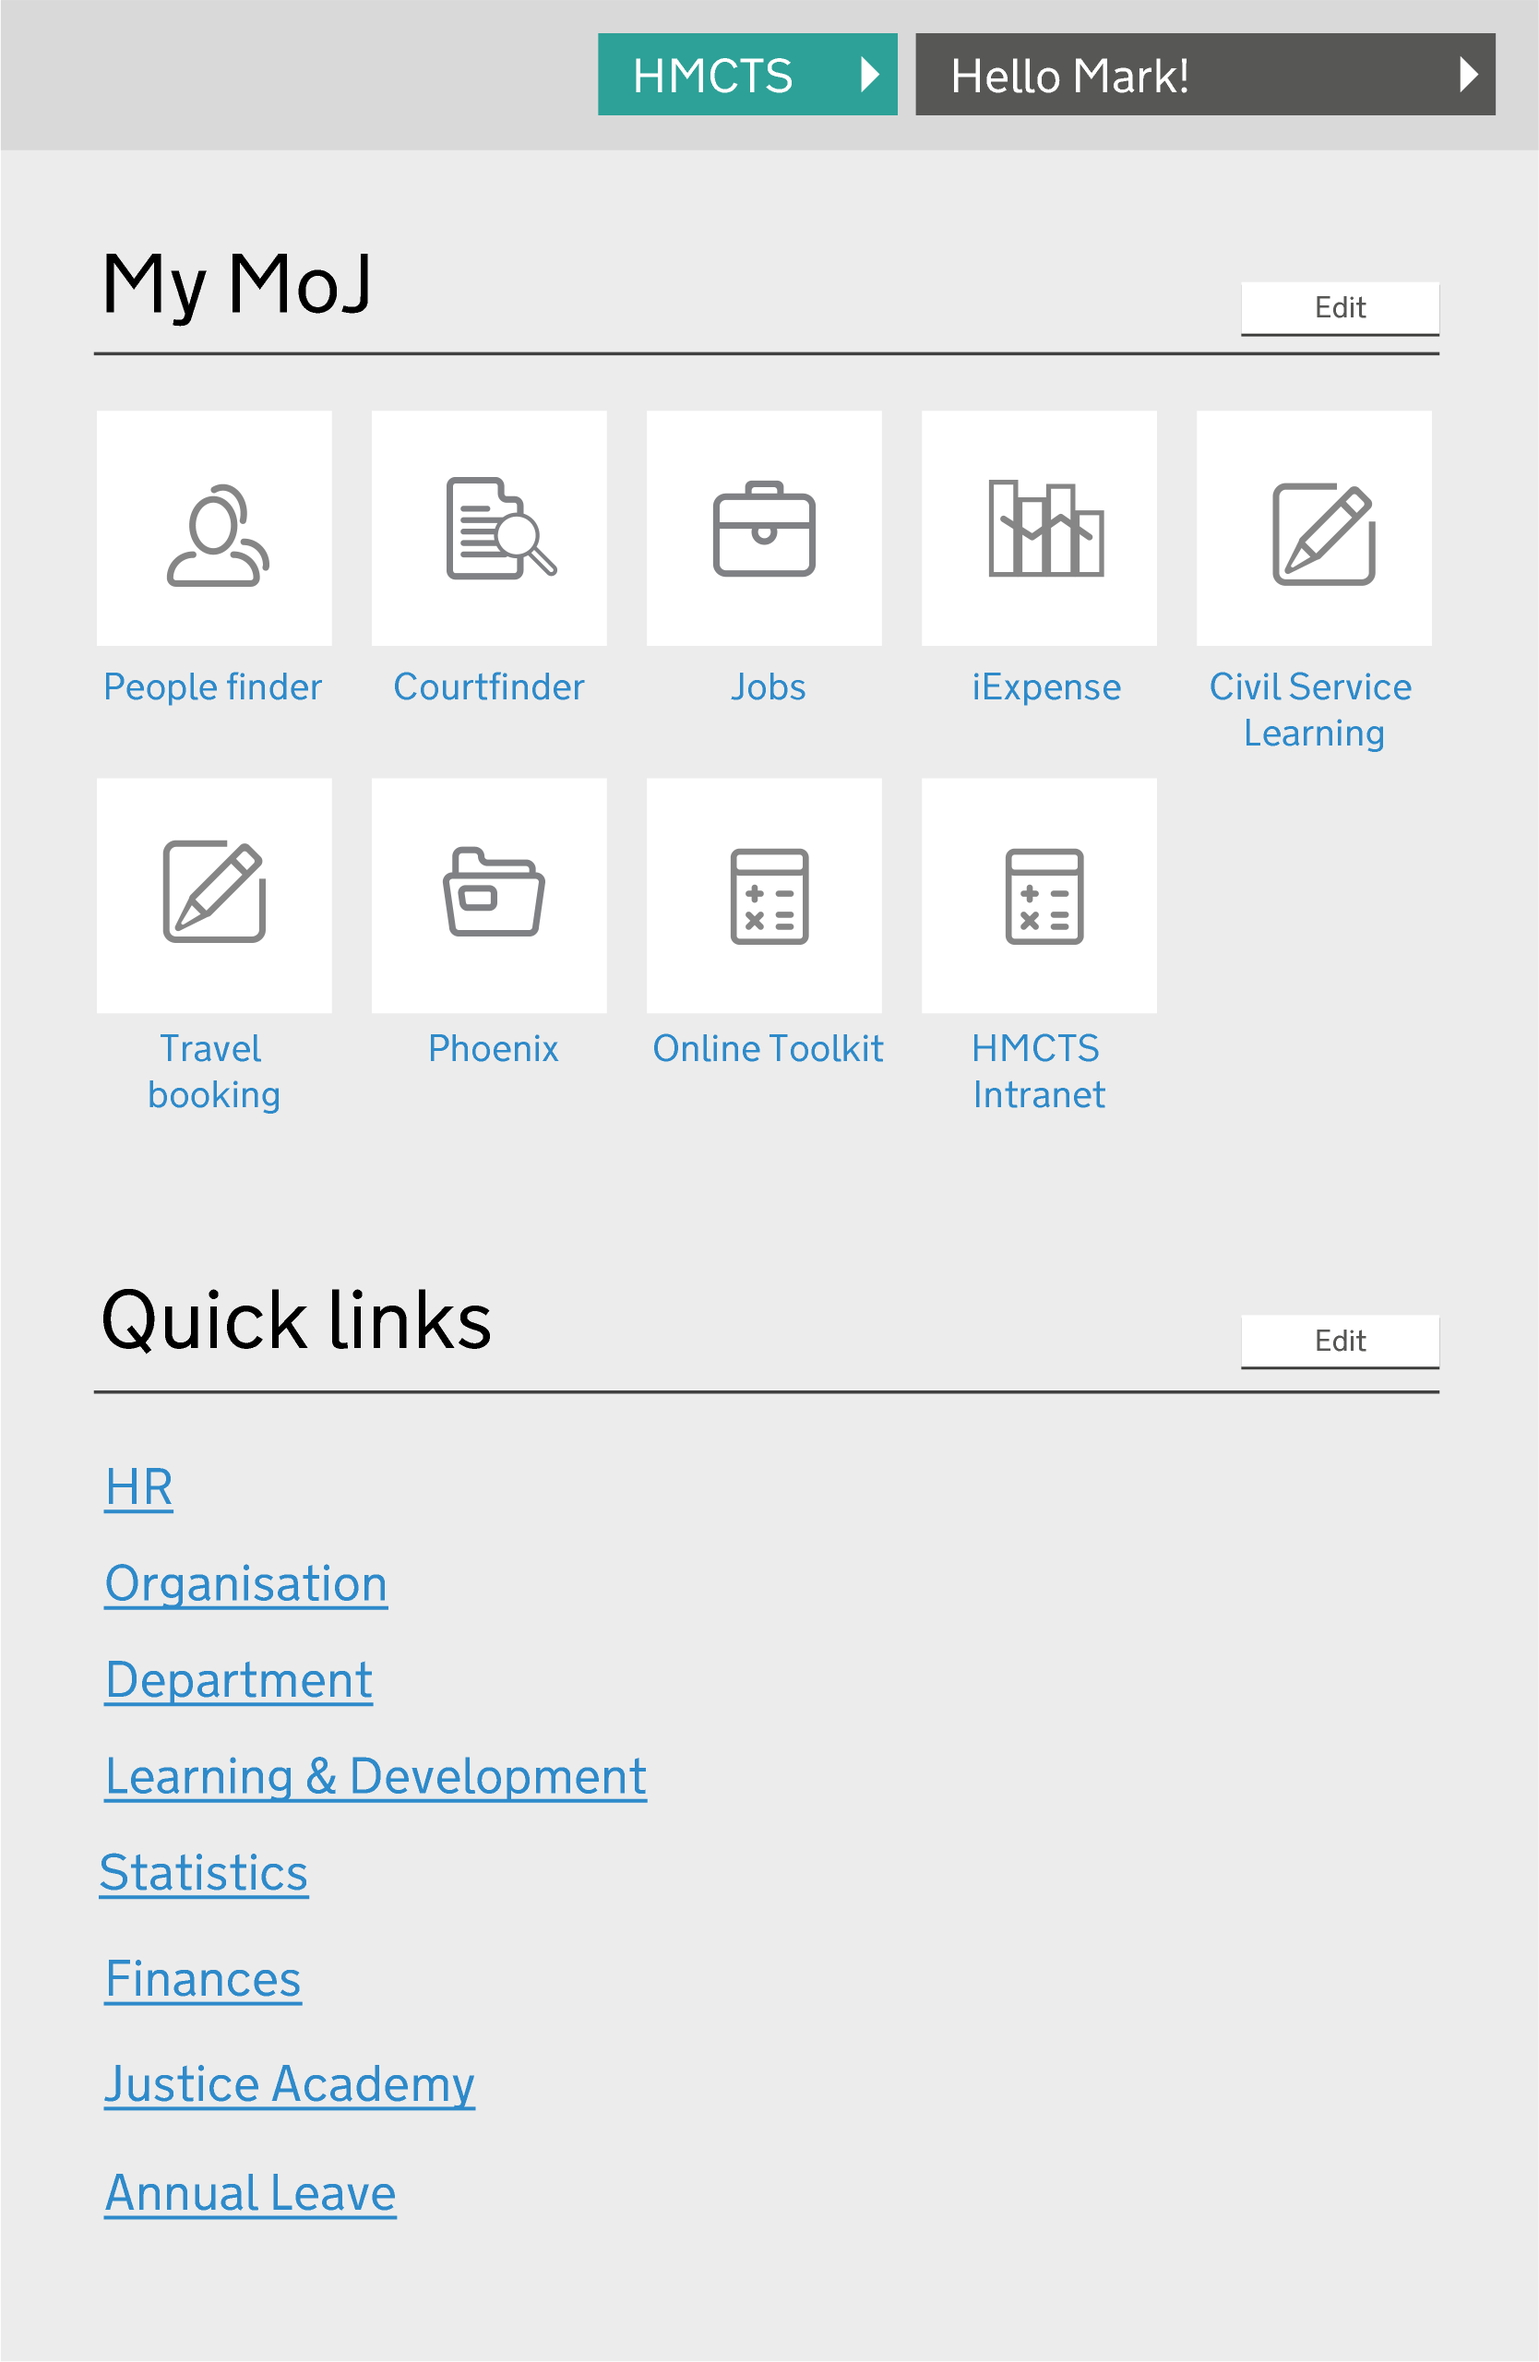
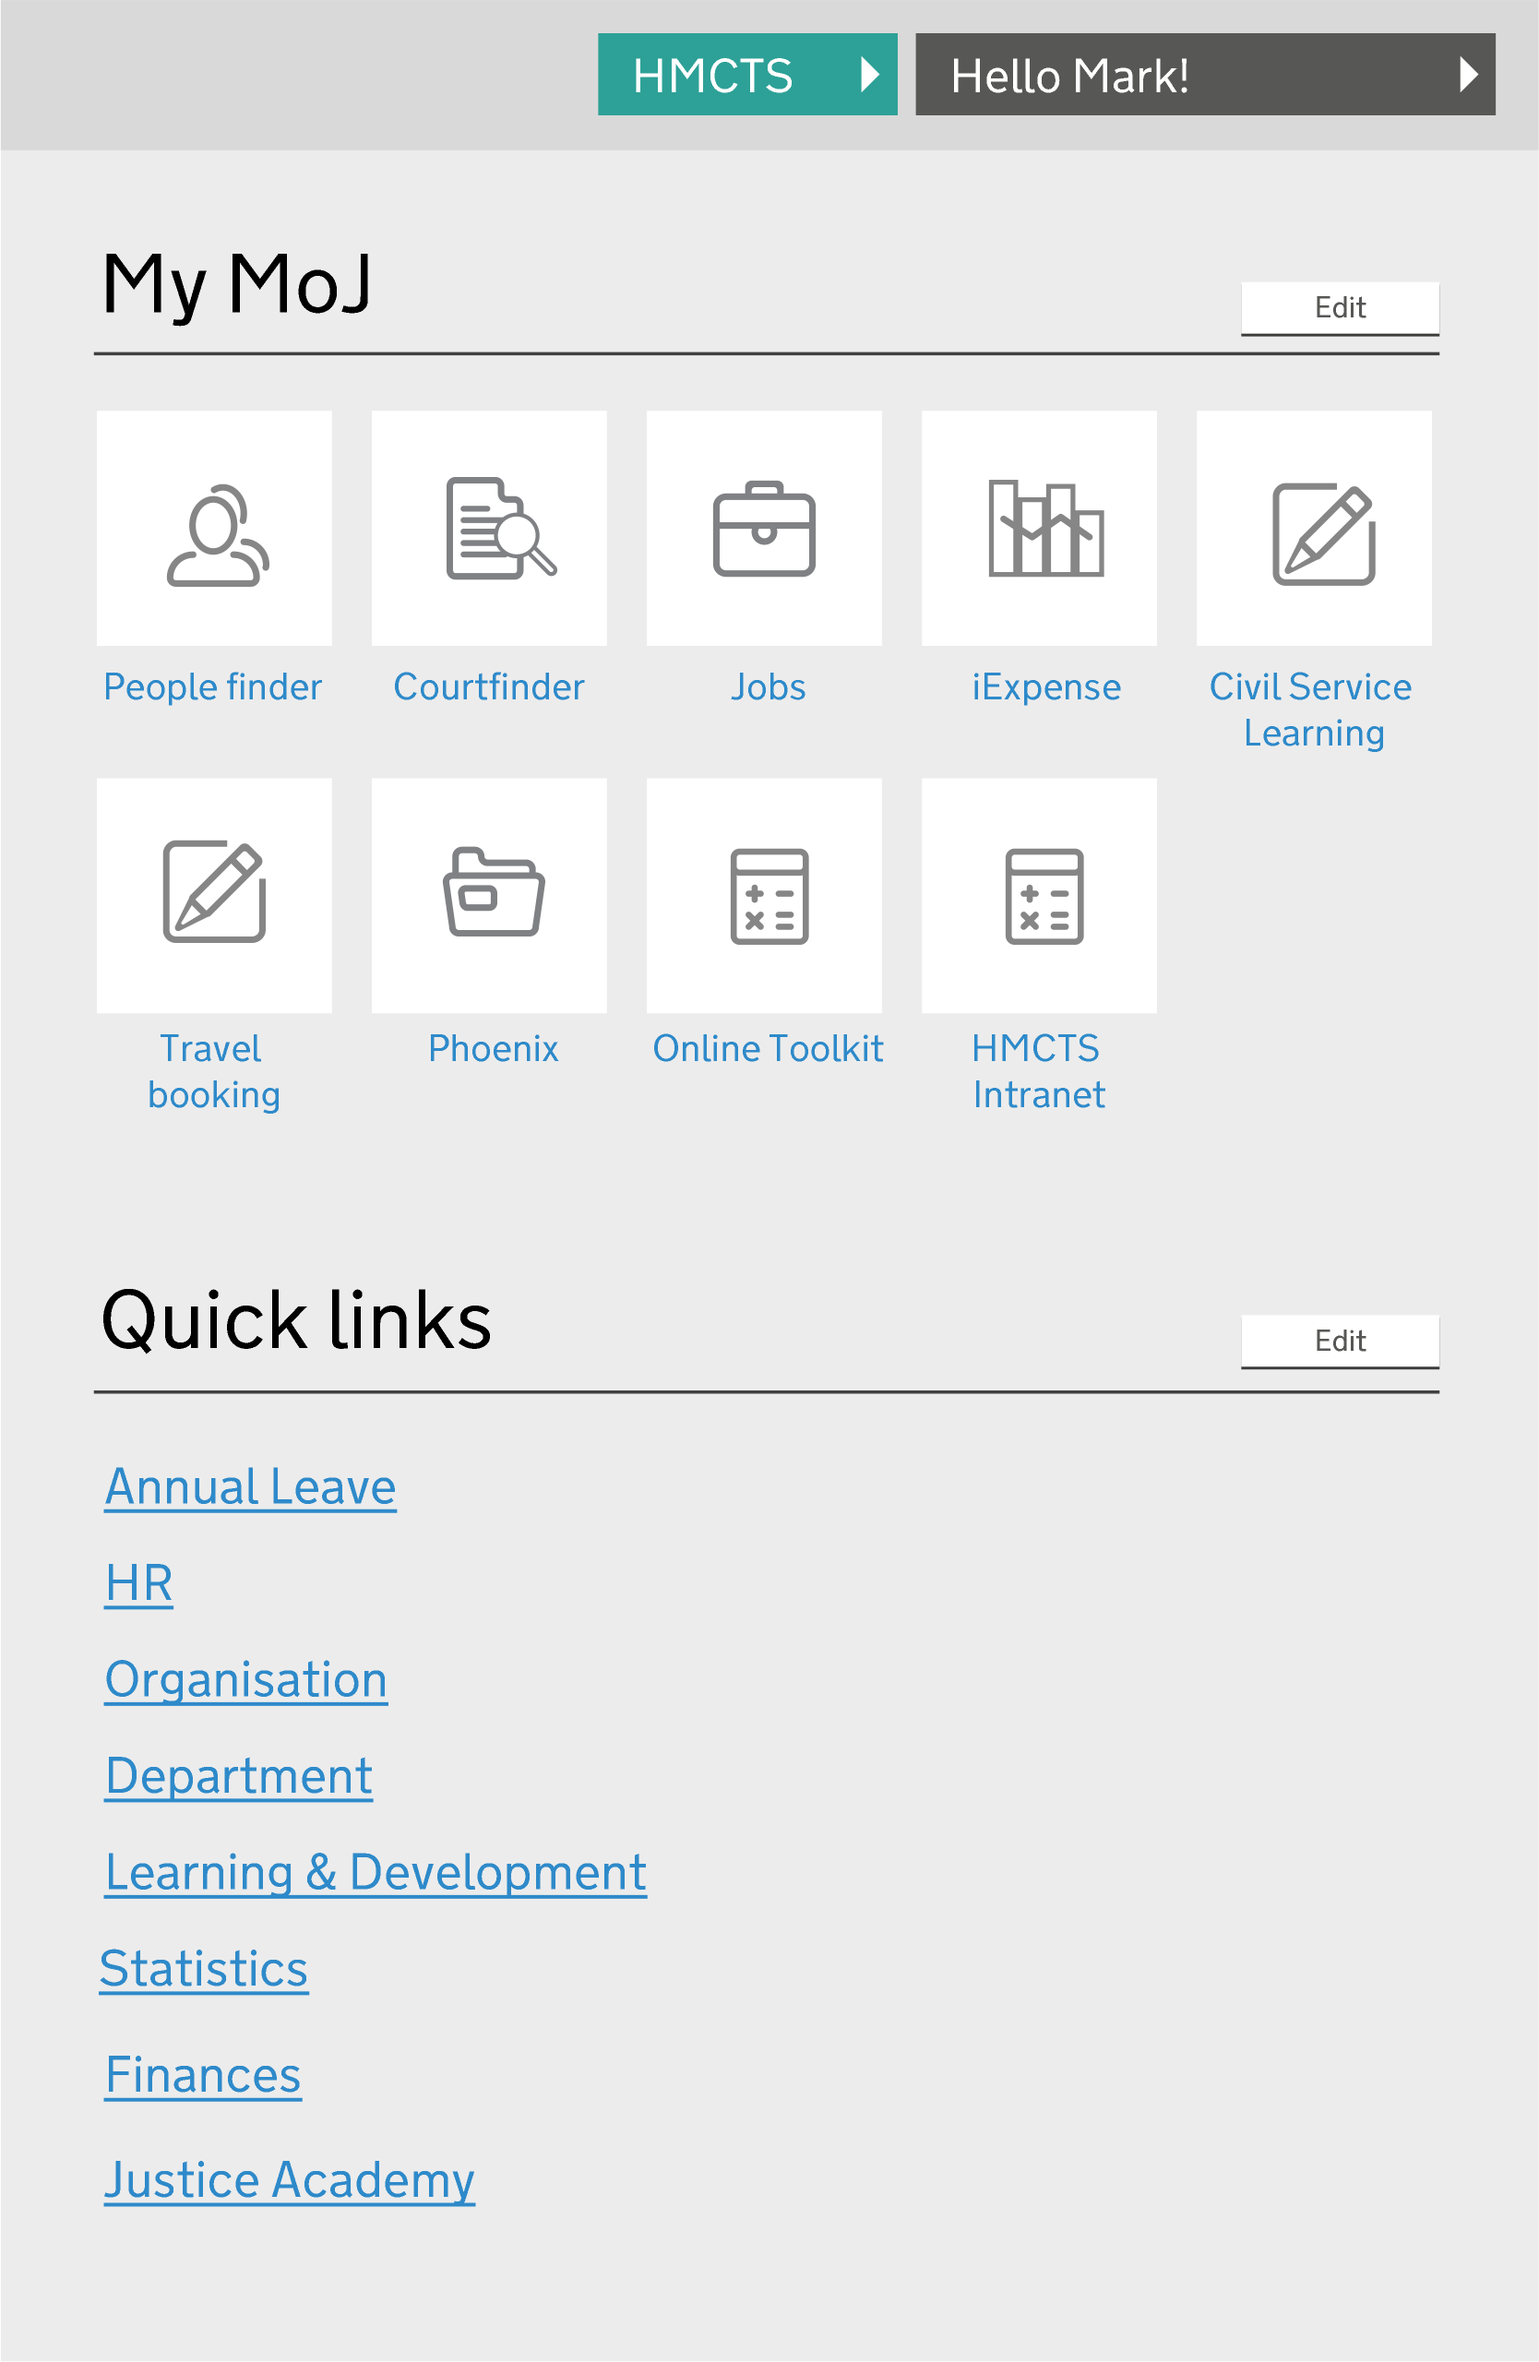
updated My MoJ links

Changed region(s): [[0.0624, 0.625, 0.4053, 0.9375]]

diff --git a/wp-content/themes/govintranetpress/css/style.css b/wp-content/themes/govintranetpress/css/style.css
@@ -1095,22 +1095,35 @@ form .form-row:first-of-type {
   top: 32.9%;
   left: 59.9%;
 }
-/* line 143, ../scss/content/homepage/_main.scss */
+/* line 142, ../scss/content/homepage/_main.scss */
+.home.page .homepage-settings-placeholder .quick-link {
+  position: absolute;
+  top: 61%;
+  left: 6.1%;
+  width: 87.5%;
+  height: 4%;
+  /*background-color: rgba(255, 0, 0, .3);*/
+}
+/* line 150, ../scss/content/homepage/_main.scss */
+.home.page .homepage-settings-placeholder .quick-link:hover {
+  background-color: rgba(0, 0, 0, 0.05);
+}
+/* line 156, ../scss/content/homepage/_main.scss */
 .home.page .feeds {
   margin-top: 40px;
   margin-bottom: 40px;
   padding-top: 40px;
   border-top: 3px solid #0b0c0c;
 }
-/* line 149, ../scss/content/homepage/_main.scss */
+/* line 162, ../scss/content/homepage/_main.scss */
 .home.page .feeds img {
   width: 100%;
 }
-/* line 155, ../scss/content/homepage/_main.scss */
+/* line 168, ../scss/content/homepage/_main.scss */
 .home.page .department-news-container h3 {
   margin-bottom: 0;
 }
-/* line 161, ../scss/content/homepage/_main.scss */
+/* line 174, ../scss/content/homepage/_main.scss */
 .home.page .department-news .news-item {
   display: inline-block;
   width: 50%;
@@ -1118,21 +1131,21 @@ form .form-row:first-of-type {
   padding-right: 20px;
   border-top: 1px solid #888;
 }
-/* line 168, ../scss/content/homepage/_main.scss */
+/* line 181, ../scss/content/homepage/_main.scss */
 .home.page .department-news .more-in-news {
   border-top: 1px solid #888;
 }
-/* line 175, ../scss/content/homepage/_main.scss */
+/* line 188, ../scss/content/homepage/_main.scss */
 .home.page .ht-feature-news.large-news .more-in-news {
   display: none;
 }
-/* line 181, ../scss/content/homepage/_main.scss */
+/* line 194, ../scss/content/homepage/_main.scss */
 .home.page .ht-feature-news.small-news .more-in-news {
   border-top: 1px solid #888;
 }
 
 @media only screen and (max-width: 767px) {
-  /* line 192, ../scss/content/homepage/_main.scss */
+  /* line 205, ../scss/content/homepage/_main.scss */
   .home.page .ht-feature-news.department-news .news-item {
     width: 100%;
   }

diff --git a/wp-content/themes/govintranetpress/scss/content/homepage/_main.scss b/wp-content/themes/govintranetpress/scss/content/homepage/_main.scss
@@ -138,6 +138,19 @@
       top: $row2-top;
       left: $col4-left;
     }
+
+    .quick-link {
+      position: absolute;
+      top: 61%;
+      left: 6.1%;
+      width: 87.5%;
+      height: 4%;
+      /*background-color: rgba(255, 0, 0, .3);*/
+
+      &:hover {
+        background-color: rgba(#000, .05);
+      }
+    }
   }
 
   .feeds {

diff --git a/wp-content/themes/govintranetpress/page-home.php b/wp-content/themes/govintranetpress/page-home.php
@@ -78,8 +78,8 @@ get_header(); ?>
           <img class="placeholder-image opened" src="<?=get_stylesheet_directory_uri()?>/images/homepage_settings_2.png" />
           <img class="placeholder-image closed" src="<?=get_stylesheet_directory_uri()?>/images/homepage_settings.png" />
           <a href="#" class="swap-link"></a>
-          <a href="#" class="app-link link-1"></a>
-          <a href="#" class="app-link link-2"></a>
+          <a href="https://people-finder.dsd.io/sessions/new" class="app-link link-1"></a>
+          <a href="https://courttribunalfinder.service.gov.uk/" class="app-link link-2"></a>
           <a href="#" class="app-link link-3"></a>
           <a href="#" class="app-link link-4"></a>
           <a href="#" class="app-link link-5"></a>
@@ -87,6 +87,7 @@ get_header(); ?>
           <a href="#" class="app-link link-7"></a>
           <a href="#" class="app-link link-8"></a>
           <a href="#" class="app-link link-9"></a>
+          <a href="guidance-and-support/hr/leave/annual-leave" class="quick-link link-1"></a>
         </div>
       </div>
     </div>
